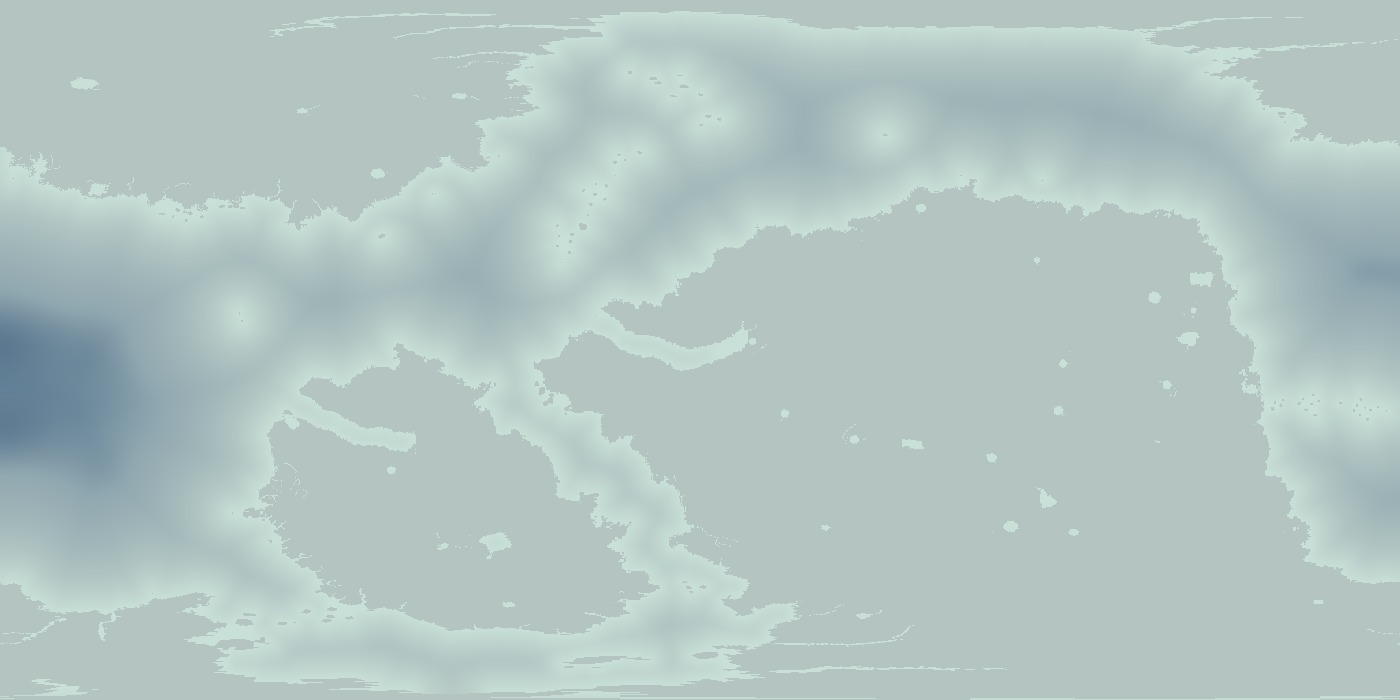
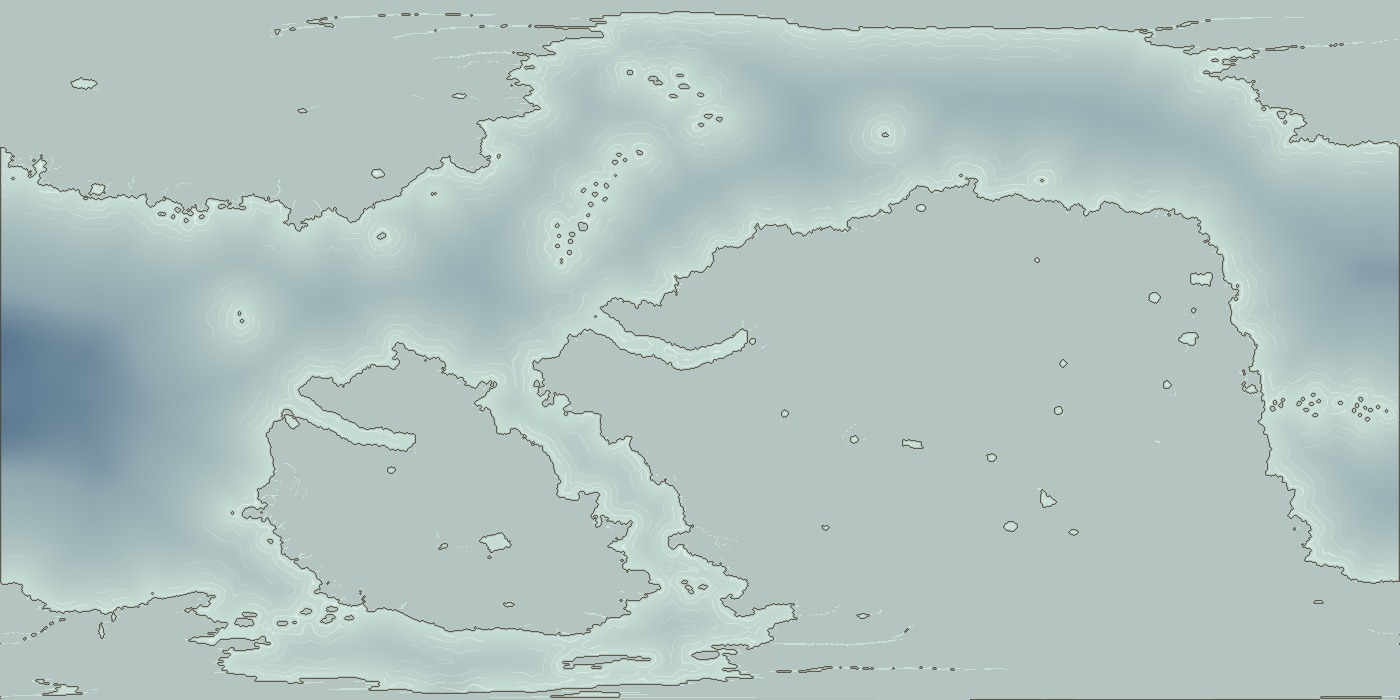
海岸線の墨線と波線を球体2世界に足す
Claude-Session: https://claude.ai/code/session_01NNF75WtqSrNc5QxPaYtfZJ

diff --git a/docs/apps/fantasy-war/mapstyle/tools/sea_layer.py b/docs/apps/fantasy-war/mapstyle/tools/sea_layer.py
@@ -3,7 +3,7 @@
 import numpy as np
 from PIL import Image
 from scipy import ndimage as ndi
-def build(land, seed=1, depth_k=0.8, depth_d=230.0, shallow_k=0.8, shallow_d=30.0, deep2_k=0.7):
+def build(land, seed=1, depth_k=0.8, depth_d=230.0, shallow_k=0.8, shallow_d=30.0, deep2_k=0.7, wave_k=1.0):
     H, W = land.shape; sea = ~land
     dist = ndi.distance_transform_edt(~land).astype(np.float32)
     dd = ndi.gaussian_filter(dist, 6); dep = np.clip(dd / depth_d, 0, 1) ** 0.85
@@ -18,6 +18,14 @@ def build(land, seed=1, depth_k=0.8, depth_d=230.0, shallow_k=0.8, shallow_d=30.
     over((86, 122, 150), dep * depth_k * 0.9)          # 沖ほど濃い青灰
     over((42, 74, 112), core)                           # 沖の深み(最濃の青の塊)
     over((206, 232, 222), sh)                           # 岸ぞいの浅瀬
+    # 波線(mapstyle45の考え方): 岸から一定の間隔の細い等距離線を、手描き風にゆらし、ところどころ切って白く引く
+    if wave_k > 0:
+        nz2 = ndi.gaussian_filter(np.random.RandomState(seed + 77).randn(H, W).astype(np.float32), 5); nz2 /= (nz2.std() + 1e-6)
+        brk = ndi.gaussian_filter(np.random.RandomState(seed + 78).randn(H, W).astype(np.float32), 9); brk /= (brk.std() + 1e-6)
+        dq = ndi.gaussian_filter(dist, 1.2) + 1.6 * nz2
+        for d0, k in ((5.0, 0.55), (11.0, 0.42), (19.0, 0.30), (30.0, 0.20)):
+            ln = np.clip(1.0 - np.abs(dq - d0) / 0.75, 0, 1) * np.clip((brk + 0.35) * 3, 0, 1)
+            over((250, 252, 248), ln * k * wave_k)
     a = a * sea; out = np.dstack([rgb, a * 255]).clip(0, 255).astype(np.uint8)
     return Image.fromarray(out, 'RGBA')
 
@@ -25,4 +33,14 @@ def colormap(land, seed=1, base=(180, 196, 192)):
     """3Dの海の面に貼る、不透明な色の地図(1400x700 RGB)。層(build)を、海の基本色の上に重ねたもの。陸の所は基本色のまま(陸は地形の面が覆う)。"""
     lay = np.array(build(land, seed)).astype(np.float32); a = lay[..., 3:4] / 255
     rgb = np.array(base, np.float32) * (1 - a) + lay[..., :3] * a
+    ink = np.array(coast_ink(~ndi.binary_erosion(~land, iterations=1))).astype(np.float32); ia = ink[..., 3:4] / 255 * (~land)[..., None]   # 海側の縁
+    rgb = rgb * (1 - ia) + ink[..., :3] * ia
     return Image.fromarray(rgb.clip(0, 255).astype(np.uint8), 'RGB')
+
+
+def coast_ink(land, color=(78, 66, 54), alpha=0.85):
+    """海岸線の細い墨線(陸側の縁の1画素)。陸の絵(3Dの地面)に重ねる透明な層。"""
+    er = ndi.binary_erosion(land, iterations=1)
+    edge = (land & ~er).astype(np.float32); edge = ndi.gaussian_filter(edge, 0.5); edge = np.clip(edge * 2.2, 0, 1)
+    H, W = land.shape; out = np.zeros((H, W, 4), np.uint8); out[..., :3] = color; out[..., 3] = (edge * alpha * 255).astype(np.uint8)
+    return Image.fromarray(out, 'RGBA')

diff --git a/docs/apps/fantasy-war/mapstyle/tools/pwg_sphere_convert.py b/docs/apps/fantasy-war/mapstyle/tools/pwg_sphere_convert.py
@@ -50,6 +50,7 @@ def main(pre, outdir, name, seed=1):
         lay = sea_layer.build(land, seed)                              # 海の深さ・浅瀬(11-23 全実装に統合)
         lay.alpha_composite(forest_world_layer.build(dat, seed))       # 森の塊(第10版)
         lay.alpha_composite(wl)                                        # 川の水面・湖(いちばん上)
+        lay.alpha_composite(sea_layer.coast_ink(land))                  # 海岸線の細い墨線(陸側の縁・mapstyle45の考え方)
         ov = outdir + '/water-layer.png'; cv2.imwrite(ov, cv2.cvtColor(np.array(lay), cv2.COLOR_RGBA2BGRA)); os.environ['FM_LP_OVERLAY'] = ov
     import lowpoly
     img = np.zeros((Hh, W, 3), np.float32) + np.array([206, 223, 235], np.float32)

diff --git a/docs/apps/sekai-hex/design/STATE.md b/docs/apps/sekai-hex/design/STATE.md
@@ -222,6 +222,7 @@
 - 【指示 11-23 01:53 ユーザー】『いちいち確かめすぎ。全ての実装をするアプリを完成させて実行してみそ』。→ 実施: 一括実行アプリ build_world.py(mapstyle/tools)を作って実行。生データ(PWG)→球体2:1展開・海で切る→ローポリ(mapstyle40の基準)→面ごとのUV→川(大河のみの帯)・湖(大小で濃淡)→森(第10版の描き方・森の群系)→海の深さ・浅瀬→3D表示の用ファイルとハブへの配置、を1コマンドで通す(使い方: python3 -I build_world.py <生データdir> 31 32)。森=pwg_sphere_convertが forest_world_layer.build を呼び、海=sea_layer.py(岸からの距離で沖ほど濃い青・沖の深み・岸ぞいの浅瀬。3Dの海の面に貼る色の地図 world<名>_sea.jpg を world3d.html が読む)。実測: 2世界の実行 約16秒(各8秒)・森の塊 32/33(針葉樹 19/8。置き方のしきい値は私の初期値 FM_FOREST_DMIN=0.08・SP=50)・面 12,120/10,155・エラー無し。目視(PC画面・全体): 山・森の塊・川・湖・海の深さの色が出た。限界: 森の置き場は旧方式(PWG5で『良かった』と評価した置き方)のままで、強調して選ぶ基準(カード6G)・群系28は未/海岸線の整え(mapstyle45の線)・方位記号・縮尺棒・題と枠・地名・都市は未搭載(まだ全部入りではない)/海の面の周りに薄い灰色の帯が見える所がある/目視は全体のみで近づいた確認は未/iPhone未測定。次の一手: 未搭載の見せ方(海岸線・方位・縮尺・題と枠)を build_world に足す。
 - 【指示 11-23 21:55 ユーザー】『まず山だが、少し大き過ぎる。僅かに小さくしてみて』。→ 実施: 山の高さの基準 FM_LP_BASE を 0.535→0.48(約1割低く。pwg_sphere_convert の既定)にして球体2世界を作り直し(build_world 約19秒)。強調(EMPH 0.775)など他は据え置き。実測: 面数は同じ 12,120/10,155・エラー無し。目視(PC全体のみ): 山の高さが少し下がった。限界: 『僅か』の量は私の見立て(約1割)・近づいた確認とiPhoneは未・PWG5の世界は未変更。次の一手: 見た目を見てもらい、もう少し下げるか戻すかを数字(0.48)の一言で調整。
 - 【質問・指示 11-23 22:01・22:03 ユーザー】『山の頂点が平らになるのはなぜ?』『山の描き方。なだらかな曲面から頂点が尖る。今の稜線(投稿線=断面の線)の書き方を再考してみて』。→ 原因(コードを読んだ見立て→実測で確認): lowpoly.py のゆるい3Dは、高さを0〜1に直す時に陸の上位0.3%の値で上を切り(clip)、さらに高さを半径2.5画素でならしていた=最上部が同じ高さの台になり頂が丸まる。実施: 山の断面を『上を切らず(上限1.35)、下に凸の曲線(高さ=相対高^1.9)』に変更(FM_LP_PEXP=1.9)、ならしを2.5→1.5(FM_LP_SMOOTH)、全体の高さが前と同じになるよう基準を0.48→0.37(最高点は54.5→54.9)。強調(0.775)・面の分け方は据え置き。結果(実測・球体seed31の頂点): 最高の97%以上の高さの頂点 31→2、90%以上 68→7、60%以上 817→169(頂が台でなく尖る。低い所は前よりなだらか)。面数 12,120→12,515。目視(PC全体): 山脈が尖った峰、低地がなだらか。エラー無し。限界: 近づいた確認とiPhoneは未・指数1.9は私の初期値・『投稿線』は稜線(断面の線)と読んだ(違えば指摘を)・稜線の墨線の引き方(140行目)は未変更・PWG5世界は未反映。次の一手: 近づいて頂の形を見てもらい、指数(1.9)を上下で調整。
+- 【指示 11-23 22:33 ユーザー】『地球地図(=世界地図と読む)の作成を続けよう』。→ 実施(前の見せ方の順 6F: 海岸線→山→川→森 の、未搭載だった海岸線): 海岸線の細い墨線(陸の縁1画素・sea_layer.coast_ink)と、岸から一定間隔の白い波線4本(手描き風にゆらし、ところどころ切る・sea_layer.build の wave_k。mapstyle45の考え方)を足し、build_world で球体2世界を作り直し。実測: 面数 12,515(seed31)・エラー無し・作成 約35秒(2世界)。目視(PC全体): 海岸線の細い縁取りと浅瀬の淡い帯が出た。波線は全体表示では淡くほぼ見えない。限界: 波線の間隔(5・11・19・30画素)と濃さは私の初期値/近づいた確認・iPhoneは未/mapstyle45の『海岸線の整え(入り組みの調整)』そのものは未実装(線を引いただけ)。次の一手: 方位記号(47)と縮尺棒(48・周長8192km基準)を足す。
 
 ## カード15 制作プロトコル(超基礎概念)と、このプロジェクトの作業フロー【確定(ユーザー指示 11-21)+案】
 - 適用範囲: このプロジェクト(ファンタジー世界戦争=世界ハニカム、docs/apps/fantasy-war と sekai-hex)だけ。他のアプリには適用しない。
@@ -273,7 +274,7 @@
 - 運用: ①決定で置き換わった試作は【置換済み】で残し、廃止・削除しない。②各試作に『他の層での使い道』を書く。③試作中の項目は管理表に『今・どこまで・次』を持つ(カード17・管理表)。④層ごとの試作(地方・戦域・戦場・隊・兵)は、その層の過去として残す。
 - 辞書の使い道(他の層で使えるもの): 山・稜線・ローポリ・色の描き方(mapstyle1〜50)=地方・戦域の地形の絵/地面の色・縮尺の検証(衛星画像1〜9)=地方〜戦場の地面/自作world.js・簡易生成=地方・戦域の小さな世界/Azgaarの部品(mapparts.js=川・道・国境・国・都市)=地方・地政学/PWG5の5世界+森のUV貼り=森・UVの手本/ローポリ建物(ポリゴン12棟・注文文)=戦域・戦場の街と砦/景色の円筒+近景3D=兵の目の景色/航宙図(気流・禁域・浮島)=空の層。
 - 試作中とどこまでやったか(11-23 22:28 時点):
-  - 世界地図(球体PWG展開・3D): 済み=ローポリ・面ごとUV・川・湖・森(簡易)・海の深さ・山の尖る断面(評価待ち)。途中=なし。未=海岸線・方位・縮尺棒・題と枠・地名都市・森の6G設計。
+  - 世界地図(球体PWG展開・3D): 済み=ローポリ・面ごとUV・川・湖・森(簡易)・海の深さ・海岸線の墨線と波線・山の尖る断面(評価待ち)。途中=なし。未=方位・縮尺棒・題と枠・地名都市・森の6G設計・海岸線の整え(線は引いた)。
   - 航宙図(3D): 途中=浮島のローポリ化(評価待ち)・気流3層・禁域の高さ層。未=世界地図と同じ地形・座標への載せ替え。
   - 魔力だまり・地脈: 途中=場と網の試作(mana_vein2.py、3D未搭載)。未=見せ方。
   - 足りないデータの検証: 未着手(次の作業)。

diff --git a/docs/apps/sekai-hex/design/cards/c06g.md b/docs/apps/sekai-hex/design/cards/c06g.md
@@ -105,3 +105,4 @@
 - 【指示 11-23 01:53 ユーザー】『いちいち確かめすぎ。全ての実装をするアプリを完成させて実行してみそ』。→ 実施: 一括実行アプリ build_world.py(mapstyle/tools)を作って実行。生データ(PWG)→球体2:1展開・海で切る→ローポリ(mapstyle40の基準)→面ごとのUV→川(大河のみの帯)・湖(大小で濃淡)→森(第10版の描き方・森の群系)→海の深さ・浅瀬→3D表示の用ファイルとハブへの配置、を1コマンドで通す(使い方: python3 -I build_world.py <生データdir> 31 32)。森=pwg_sphere_convertが forest_world_layer.build を呼び、海=sea_layer.py(岸からの距離で沖ほど濃い青・沖の深み・岸ぞいの浅瀬。3Dの海の面に貼る色の地図 world<名>_sea.jpg を world3d.html が読む)。実測: 2世界の実行 約16秒(各8秒)・森の塊 32/33(針葉樹 19/8。置き方のしきい値は私の初期値 FM_FOREST_DMIN=0.08・SP=50)・面 12,120/10,155・エラー無し。目視(PC画面・全体): 山・森の塊・川・湖・海の深さの色が出た。限界: 森の置き場は旧方式(PWG5で『良かった』と評価した置き方)のままで、強調して選ぶ基準(カード6G)・群系28は未/海岸線の整え(mapstyle45の線)・方位記号・縮尺棒・題と枠・地名・都市は未搭載(まだ全部入りではない)/海の面の周りに薄い灰色の帯が見える所がある/目視は全体のみで近づいた確認は未/iPhone未測定。次の一手: 未搭載の見せ方(海岸線・方位・縮尺・題と枠)を build_world に足す。
 - 【指示 11-23 21:55 ユーザー】『まず山だが、少し大き過ぎる。僅かに小さくしてみて』。→ 実施: 山の高さの基準 FM_LP_BASE を 0.535→0.48(約1割低く。pwg_sphere_convert の既定)にして球体2世界を作り直し(build_world 約19秒)。強調(EMPH 0.775)など他は据え置き。実測: 面数は同じ 12,120/10,155・エラー無し。目視(PC全体のみ): 山の高さが少し下がった。限界: 『僅か』の量は私の見立て(約1割)・近づいた確認とiPhoneは未・PWG5の世界は未変更。次の一手: 見た目を見てもらい、もう少し下げるか戻すかを数字(0.48)の一言で調整。
 - 【質問・指示 11-23 22:01・22:03 ユーザー】『山の頂点が平らになるのはなぜ?』『山の描き方。なだらかな曲面から頂点が尖る。今の稜線(投稿線=断面の線)の書き方を再考してみて』。→ 原因(コードを読んだ見立て→実測で確認): lowpoly.py のゆるい3Dは、高さを0〜1に直す時に陸の上位0.3%の値で上を切り(clip)、さらに高さを半径2.5画素でならしていた=最上部が同じ高さの台になり頂が丸まる。実施: 山の断面を『上を切らず(上限1.35)、下に凸の曲線(高さ=相対高^1.9)』に変更(FM_LP_PEXP=1.9)、ならしを2.5→1.5(FM_LP_SMOOTH)、全体の高さが前と同じになるよう基準を0.48→0.37(最高点は54.5→54.9)。強調(0.775)・面の分け方は据え置き。結果(実測・球体seed31の頂点): 最高の97%以上の高さの頂点 31→2、90%以上 68→7、60%以上 817→169(頂が台でなく尖る。低い所は前よりなだらか)。面数 12,120→12,515。目視(PC全体): 山脈が尖った峰、低地がなだらか。エラー無し。限界: 近づいた確認とiPhoneは未・指数1.9は私の初期値・『投稿線』は稜線(断面の線)と読んだ(違えば指摘を)・稜線の墨線の引き方(140行目)は未変更・PWG5世界は未反映。次の一手: 近づいて頂の形を見てもらい、指数(1.9)を上下で調整。
+- 【指示 11-23 22:33 ユーザー】『地球地図(=世界地図と読む)の作成を続けよう』。→ 実施(前の見せ方の順 6F: 海岸線→山→川→森 の、未搭載だった海岸線): 海岸線の細い墨線(陸の縁1画素・sea_layer.coast_ink)と、岸から一定間隔の白い波線4本(手描き風にゆらし、ところどころ切る・sea_layer.build の wave_k。mapstyle45の考え方)を足し、build_world で球体2世界を作り直し。実測: 面数 12,515(seed31)・エラー無し・作成 約35秒(2世界)。目視(PC全体): 海岸線の細い縁取りと浅瀬の淡い帯が出た。波線は全体表示では淡くほぼ見えない。限界: 波線の間隔(5・11・19・30画素)と濃さは私の初期値/近づいた確認・iPhoneは未/mapstyle45の『海岸線の整え(入り組みの調整)』そのものは未実装(線を引いただけ)。次の一手: 方位記号(47)と縮尺棒(48・周長8192km基準)を足す。

diff --git a/docs/apps/sekai-hex/design/cards/c018.md b/docs/apps/sekai-hex/design/cards/c018.md
@@ -6,7 +6,7 @@
 - 運用: ①決定で置き換わった試作は【置換済み】で残し、廃止・削除しない。②各試作に『他の層での使い道』を書く。③試作中の項目は管理表に『今・どこまで・次』を持つ(カード17・管理表)。④層ごとの試作(地方・戦域・戦場・隊・兵)は、その層の過去として残す。
 - 辞書の使い道(他の層で使えるもの): 山・稜線・ローポリ・色の描き方(mapstyle1〜50)=地方・戦域の地形の絵/地面の色・縮尺の検証(衛星画像1〜9)=地方〜戦場の地面/自作world.js・簡易生成=地方・戦域の小さな世界/Azgaarの部品(mapparts.js=川・道・国境・国・都市)=地方・地政学/PWG5の5世界+森のUV貼り=森・UVの手本/ローポリ建物(ポリゴン12棟・注文文)=戦域・戦場の街と砦/景色の円筒+近景3D=兵の目の景色/航宙図(気流・禁域・浮島)=空の層。
 - 試作中とどこまでやったか(11-23 22:28 時点):
-  - 世界地図(球体PWG展開・3D): 済み=ローポリ・面ごとUV・川・湖・森(簡易)・海の深さ・山の尖る断面(評価待ち)。途中=なし。未=海岸線・方位・縮尺棒・題と枠・地名都市・森の6G設計。
+  - 世界地図(球体PWG展開・3D): 済み=ローポリ・面ごとUV・川・湖・森(簡易)・海の深さ・海岸線の墨線と波線・山の尖る断面(評価待ち)。途中=なし。未=方位・縮尺棒・題と枠・地名都市・森の6G設計・海岸線の整え(線は引いた)。
   - 航宙図(3D): 途中=浮島のローポリ化(評価待ち)・気流3層・禁域の高さ層。未=世界地図と同じ地形・座標への載せ替え。
   - 魔力だまり・地脈: 途中=場と網の試作(mana_vein2.py、3D未搭載)。未=見せ方。
   - 足りないデータの検証: 未着手(次の作業)。
